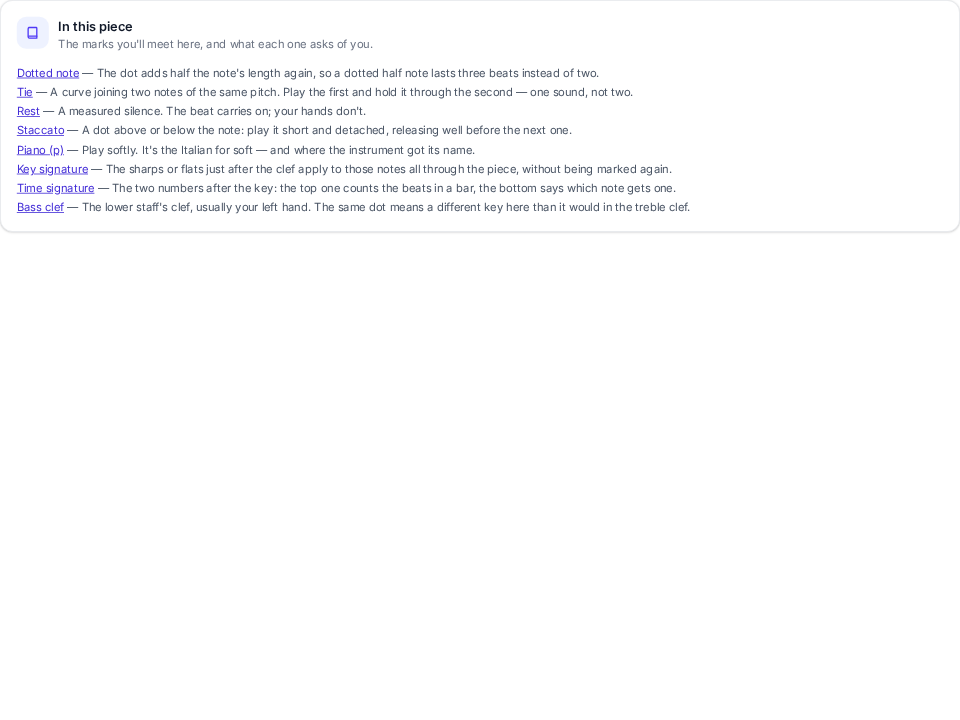
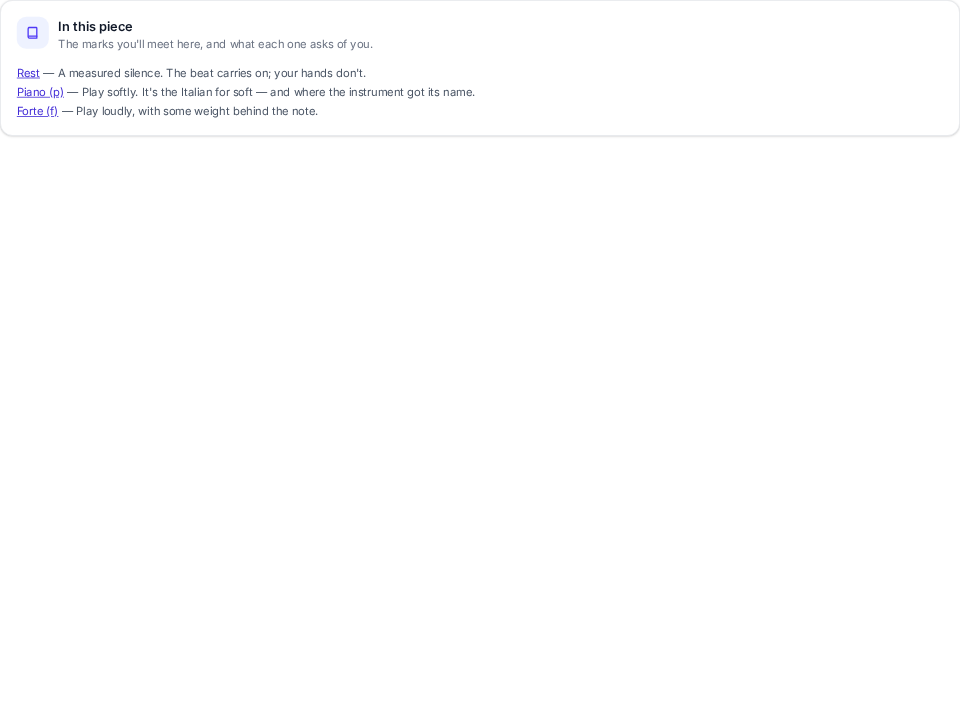
fix(stories): keep the in-this-piece baseline clear of the wrap boundary
The story showed eight marks, and the longer glosses ran to within about 200px of
the 800px baseline viewport. A sub-pixel font-metric difference between machines is
enough to wrap one of them, which reflows every row below it — 5969 pixels, 1% of
the frame, against a 0.5% allowance whose own tail is 0.2%. It rendered
byte-identically here and differently on CI, which is exactly what a wrap flip
looks like and not what anti-aliasing looks like.

Three marks with short glosses instead. Every row now ends around half the frame
width, so the layout, the link styling, the separator and the glossary's grouping
order are all still pinned, with nothing near a break point.

Changed region(s): [[0.0, 0.0917, 0.7188, 0.3056]]

diff --git a/app/components/features/scoreSymbols.stories.tsx b/app/components/features/scoreSymbols.stories.tsx
@@ -16,17 +16,21 @@ export default meta;
 
 type Story = StoryObj<typeof ScoreSymbols>;
 
+// Three marks with short glosses, chosen so every row fits comfortably on one line at
+// the 800px baseline viewport. The longer glosses run to within ~200px of the edge, and
+// a sub-pixel font-metric difference between machines is enough to wrap one of them —
+// which reflows every row below it and blows past the 0.5% pixel allowance. Three short
+// rows pin the layout, the link styling and the glossary's grouping order just as well.
 export const SeveralMarks: Story = {
     args: {
         xml: buildSnippet({
-            clef: "bass",
-            fifths: 2,
-            beatsPerBar: 3,
+            clef: "treble",
+            fifths: 0,
+            beatsPerBar: 4,
             notes: [
-                { step: "C", octave: 3, value: "quarter", articulation: "staccato", dynamic: "p" },
                 { step: null, value: "quarter" },
-                { step: "G", octave: 2, value: "quarter", tie: "start" },
-                { step: "G", octave: 2, value: "half", dotted: true, tie: "stop" },
+                { step: "C", octave: 5, value: "quarter", dynamic: "p" },
+                { step: "E", octave: 5, value: "half", dynamic: "f" },
             ],
         }),
     },
